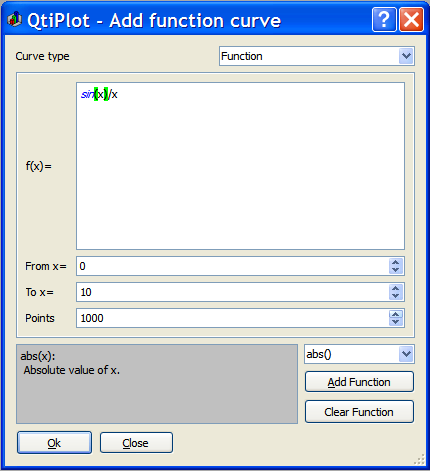
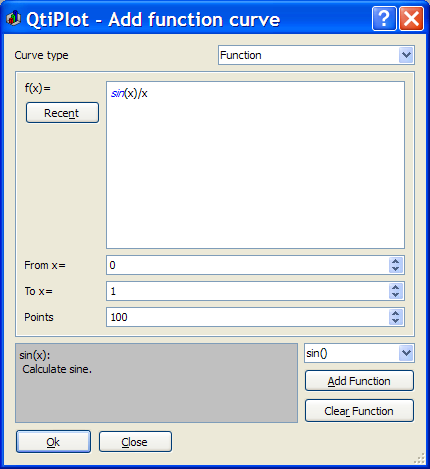
- Improved 2D function dialog. - Fixed bugs in setting scales for 3D plots created from matrices.

Changed region(s): [[0.0, 0.0, 1.0, 1.0]]

diff --git a/trunk/qtiplot/src/plot2D/dialogs/FunctionDialog.cpp b/trunk/qtiplot/src/plot2D/dialogs/FunctionDialog.cpp
@@ -63,6 +63,8 @@ FunctionDialog::FunctionDialog(ApplicationWindow* parent, bool standAlone, Qt::W
 	}
 
     setObjectName( "FunctionDialog" );
+	QString recentTip = tr("Click here to select a recently typed expression");
+	QString recentBtnText = tr("Rece&nt");
 
 	QHBoxLayout *hbox1 = new QHBoxLayout();
 	hbox1->addWidget(new QLabel(tr( "Curve type " )));
@@ -76,12 +78,22 @@ FunctionDialog::FunctionDialog(ApplicationWindow* parent, bool standAlone, Qt::W
 	optionStack->setFrameShape( QFrame::StyledPanel );
 	optionStack->setFrameShadow( QStackedWidget::Plain );
 
+	QVBoxLayout *vl = new QVBoxLayout();
+	vl->addWidget(new QLabel(tr( "f(x)= " )));
+
+	buttonFunctionLog = new QPushButton(recentBtnText);
+	buttonFunctionLog->setToolTip(recentTip);
+	connect(buttonFunctionLog, SIGNAL(clicked()), this, SLOT(showFunctionLog()));
+	vl->addWidget(buttonFunctionLog);
+	vl->addStretch();
+
 	QGridLayout *gl1 = new QGridLayout();
-    gl1->addWidget(new QLabel(tr( "f(x)= " )), 0, 0);
+	gl1->addLayout(vl, 0, 0);
+
 	boxFunction = new ScriptEdit(d_app->scriptingEnv());
 	boxFunction->enableShortcuts();
-
 	gl1->addWidget(boxFunction, 0, 1);
+
 	gl1->addWidget(new QLabel(tr( "From x= " )), 1, 0);
 	boxFrom = new DoubleSpinBox();
 	boxFrom->setLocale(locale);
@@ -134,8 +146,6 @@ FunctionDialog::FunctionDialog(ApplicationWindow* parent, bool standAlone, Qt::W
 	connect(boxXFunction, SIGNAL(activated(ScriptEdit *)), this, SLOT(setActiveEditor(ScriptEdit *)));
 	gl2->addWidget(boxXFunction, 1, 1);
 
-	QString recentTip = tr("Click here to select a recently typed expression");
-	QString recentBtnText = tr("Rece&nt");
 	buttonXParLog = new QPushButton(recentBtnText);
 	buttonXParLog->setToolTip(recentTip);
 	gl2->addWidget(buttonXParLog, 1, 2);
@@ -304,11 +314,6 @@ FunctionDialog::FunctionDialog(ApplicationWindow* parent, bool standAlone, Qt::W
 
 void FunctionDialog::raiseWidget(int index)
 {
-	if (index)
-		buttonClear->setText( tr( "Clear list" ) );
-	else
-		buttonClear->setText( tr( "Clear Function" ) );
-
 	optionStack->setCurrentIndex(index);
 }
 
@@ -381,7 +386,7 @@ void FunctionDialog::setCurveToModify(Graph *g, int curve)
 
 void FunctionDialog::clearList()
 {
-	int type=boxType->currentItem();
+	int type = boxType->currentItem();
 	switch (type)
 	{
 		case 0:
@@ -391,13 +396,11 @@ void FunctionDialog::clearList()
 		case 1:
 			boxXFunction->clear();
 			boxYFunction->clear();
-			emit clearParamFunctionsList();
 			break;
 
 		case 2:
 			boxPolarTheta->clear();
 			boxPolarRadius->clear();
-			emit clearPolarFunctionsList();
 			break;
 	}
 }
@@ -443,7 +446,8 @@ void FunctionDialog::acceptFunction()
 	int type = boxType->currentItem();
 	QStringList formulas;
 	formulas += formula;
-	if (!error){
+	if (!error && d_app){
+		d_app->updateFunctionLists(type, formulas);
 		if (!graph){
 			MultiLayer *plot = d_app->newFunctionPlot(formulas, start, end, boxPoints->value(), "x", type);
 			if (plot)
@@ -605,6 +609,22 @@ void FunctionDialog::accept()
 			acceptPolar();
 			break;
 	}
+}
+
+void FunctionDialog::showFunctionLog()
+{
+	if (!d_app)
+		return;
+
+	if (d_app->d_recent_functions.isEmpty()){
+		QMessageBox::information(this, tr("QtiPlot"), tr("Sorry, there are no recent expressions available!"));
+		return;
+	}
+
+	bool ok;
+	QString s = QInputDialog::getItem(this, tr("QtiPlot") + " - " + tr("Recent Functions"), tr("Please, choose a function:"), d_app->d_recent_functions, 0, false, &ok);
+	if (ok && !s.isEmpty())
+		boxFunction->setText(s);
 }
 
 void FunctionDialog::showXParLog()

diff --git a/trunk/qtiplot/src/plot3D/Graph3D.cpp b/trunk/qtiplot/src/plot3D/Graph3D.cpp
@@ -1265,8 +1265,6 @@ void Graph3D::setScales(double xl, double xr, double yl, double yr, double zl, d
 {
 	QApplication::setOverrideCursor(QCursor(Qt::WaitCursor));
 
-	sp->hide();//in order to avoid flickering, due to changes in tick length
-
 	double *majorTicLengths = new double[12];
 	double *minorTicLengths = new double[12];
 	for (int i = 0; i < 12; i++)
@@ -1313,52 +1311,50 @@ void Graph3D::setScales(double xl, double xr, double yl, double yr, double zl, d
 	delete [] majorTicLengths;
 	delete [] minorTicLengths;
 
-    sp->show();
-
 	QApplication::restoreOverrideCursor();
 }
 
 void Graph3D::updateScalesFromMatrix(double xl, double xr, double yl, double yr, double zl, double zr)
 {
 	double zmin = qMin(zl, zr);
+	double zmax = qMax(zl, zr);
+
 	double xStart = qMin(d_matrix->xStart(), d_matrix->xEnd());
 	double xEnd = qMax(d_matrix->xStart(), d_matrix->xEnd());
 	double yStart = qMin(d_matrix->yStart(), d_matrix->yEnd());
 	double yEnd = qMax(d_matrix->yStart(), d_matrix->yEnd());
 	double dx = d_matrix->dx();
 	double dy = d_matrix->dy();
-    double x_begin = qMin(xl, xr);
+	double x_begin = qMin(xl, xr);
 	double y_begin = qMin(yl, yr);
-	int nc = int(fabs(xr - xl)/dx) + 1;// new number of columns
-	int nr = int(fabs(yr - yl)/dy) + 1;// new number of rows
+
+	int nc = qRound(fabs(xr - xl)/dx) + 1;// new number of columns
+	int nr = qRound(fabs(yr - yl)/dy) + 1;// new number of rows
+
 	double **data_matrix = Matrix::allocateMatrixData(nc, nr);
 	for (int i = 0; i < nc; i++){
 		double x = x_begin + i*dx;
 		if (x < xStart || x > xEnd){
 			for (int j = 0; j < nr; j++)
 				data_matrix[i][j] = zmin;
-			continue;
 		}
 
-        double dli, dlf;
-        dlf = modf(fabs((x - xStart)/dx), &dli);
-        int l = int(dli); if (dlf > 0.5) l++;
+		double dli, dlf;
+		dlf = modf(fabs((x - xStart)/dx), &dli);
+		int l = qRound(dli); if (dlf > 0.5) l++;
 		for (int j = 0; j < nr; j++){
 			double y = y_begin + j*dy;
-			if (y < yStart || y > yEnd){
+			if (y < yStart || y > yEnd)
 				data_matrix[i][j] = zmin;
-				continue;
-			}
 
 			double dki, dkf;
 			dkf = modf(fabs((y - yStart)/dy), &dki);
-			int k = int(dki); if (dkf > 0.5) k++;
+			int k = qRound(dki); if (dkf > 0.5) k++;
 			double val = d_matrix->cell(k, l);
-
-			if (val > zr)
-				data_matrix[i][j] = zr;
-			else if (val < zl)
-				data_matrix[i][j] = zl;
+			if (val > zmax)
+				data_matrix[i][j] = zmax;
+			else if (val < zmin)
+				data_matrix[i][j] = zmin;
 			else
 				data_matrix[i][j] = val;
 		}
@@ -1366,8 +1362,8 @@ void Graph3D::updateScalesFromMatrix(double xl, double xr, double yl, double yr,
 	sp->loadFromData(data_matrix, nc, nr, xl, xr, yl, yr);
 	Matrix::freeMatrixData(data_matrix, nc);
 
-	sp->createCoordinateSystem(Triple(xl, yl, zl), Triple(xr, yr, zr));
-	sp->legend()->setLimits(zl, zr);
+	sp->createCoordinateSystem(Triple(xl, yl, zmin), Triple(xr, yr, zmax));
+	sp->legend()->setLimits(zmin, zmax);
 	sp->legend()->setMajors(legendMajorTicks);
 
 	update();

diff --git a/trunk/qtiplot/src/core/ApplicationWindow.cpp b/trunk/qtiplot/src/core/ApplicationWindow.cpp
@@ -4881,6 +4881,7 @@ void ApplicationWindow::readSettings()
 	rFunctions = settings.value("/rFunctions").toStringList();
 	thetaFunctions = settings.value("/thetaFunctions").toStringList();
 	d_param_surface_func = settings.value("/ParametricSurfaces").toStringList();
+	d_recent_functions = settings.value("/Functions").toStringList();
 	settings.endGroup(); // UserFunctions
 
 	settings.beginGroup("/Confirmations");
@@ -5255,6 +5256,7 @@ void ApplicationWindow::saveSettings()
 	settings.setValue("/rFunctions", rFunctions);
 	settings.setValue("/thetaFunctions", thetaFunctions);
     settings.setValue("/ParametricSurfaces", d_param_surface_func);
+	settings.setValue("/Functions", d_recent_functions);
 	settings.endGroup(); // UserFunctions
 
 	settings.beginGroup("/Confirmations");
@@ -10221,9 +10223,6 @@ FunctionDialog* ApplicationWindow::showFunctionDialog(Graph *g, int curve)
 FunctionDialog* ApplicationWindow::functionDialog()
 {
 	FunctionDialog* fd = new FunctionDialog(this);
-	connect (fd, SIGNAL(clearParamFunctionsList()), this, SLOT(clearParamFunctionsList()));
-	connect (fd, SIGNAL(clearPolarFunctionsList()), this, SLOT(clearPolarFunctionsList()));
-
 	fd->setModal(true);
 	fd->show();
 	fd->setActiveWindow();
@@ -10254,8 +10253,7 @@ void ApplicationWindow::addFunctionCurve()
 void ApplicationWindow::updateFunctionLists(int type, QStringList &formulas)
 {
 	int maxListSize = 10;
-	if (type == 2 && formulas.size() >= 2)
-	{
+	if (type == 2 && formulas.size() >= 2){
 		rFunctions.remove(formulas[0]);
 		rFunctions.push_front(formulas[0]);
 
@@ -10266,9 +10264,7 @@ void ApplicationWindow::updateFunctionLists(int type, QStringList &formulas)
 			rFunctions.pop_back();
 		while ((int)thetaFunctions.size() > maxListSize)
 			thetaFunctions.pop_back();
-	}
-	else if (type == 1 && formulas.size() >= 2)
-	{		
+	} else if (type == 1 && formulas.size() >= 2){
 		xFunctions.remove(formulas[0]);
 		xFunctions.push_front(formulas[0]);
 
@@ -10279,6 +10275,12 @@ void ApplicationWindow::updateFunctionLists(int type, QStringList &formulas)
 			xFunctions.pop_back();
 		while ((int)yFunctions.size() > maxListSize)
 			yFunctions.pop_back();
+	} else if (type == 0 && formulas.size() >= 1){
+		d_recent_functions.remove(formulas[0]);
+		d_recent_functions.push_front(formulas[0]);
+
+		while ((int)d_recent_functions.size() > maxListSize)
+			d_recent_functions.pop_back();
 	}
 }
 
@@ -10299,23 +10301,6 @@ void ApplicationWindow::clearLogInfo()
 		results->setText("");
 		emit modified();
 	}
-}
-
-void ApplicationWindow::clearParamFunctionsList()
-{
-	xFunctions.clear();
-	yFunctions.clear();
-}
-
-void ApplicationWindow::clearPolarFunctionsList()
-{
-	rFunctions.clear();
-	thetaFunctions.clear();
-}
-
-void ApplicationWindow::clearSurfaceFunctionsList()
-{
-	surfaceFunc.clear();
 }
 
 void ApplicationWindow::setFramed3DPlot()

diff --git a/trunk/qtiplot/src/plot3D/SurfaceDialog.cpp b/trunk/qtiplot/src/plot3D/SurfaceDialog.cpp
@@ -67,7 +67,7 @@ SurfaceDialog::SurfaceDialog( QWidget* parent, Qt::WFlags fl )
 	initFunctionPage();
 	initParametricSurfacePage();
 
-	buttonClear = new QPushButton(tr("Clear &list"));
+	buttonClear = new QPushButton(tr("Clea&r"));
 	buttonOk = new QPushButton(tr("&OK"));
     buttonOk->setDefault(true);
     buttonCancel = new QPushButton(tr("&Close"));
@@ -87,7 +87,7 @@ SurfaceDialog::SurfaceDialog( QWidget* parent, Qt::WFlags fl )
     setFocusProxy(boxFunction);
 
 	connect( boxType, SIGNAL(activated(int)), optionStack, SLOT(setCurrentIndex(int)));
-	connect( buttonClear, SIGNAL(clicked()), this, SLOT(clearList()));
+	connect( buttonClear, SIGNAL(clicked()), this, SLOT(clearFunction()));
     connect( buttonOk, SIGNAL(clicked()), this, SLOT(accept()));
     connect( buttonCancel, SIGNAL(clicked()), this, SLOT(reject()));
 }
@@ -321,17 +321,14 @@ void SurfaceDialog::initParametricSurfacePage()
 	optionStack->addWidget(parametricPage);
 }
 
-void SurfaceDialog::clearList()
+void SurfaceDialog::clearFunction()
 {
-    ApplicationWindow *app = (ApplicationWindow *)this->parent();
-
-    if (app && boxType->currentIndex())
-        app->d_param_surface_func.clear();
-    else {
-        boxFunction->clear();
-        if (app)
-            app->clearSurfaceFunctionsList();
-    }
+	if (boxType->currentIndex()){
+		boxX->clear();
+		boxY->clear();
+		boxZ->clear();
+	} else
+		boxFunction->clear();
 }
 
 void SurfaceDialog::setFunction(Graph3D *g)

diff --git a/trunk/qtiplot/src/core/ApplicationWindow.h b/trunk/qtiplot/src/core/ApplicationWindow.h
@@ -369,10 +369,7 @@ public slots:
 	FunctionDialog* functionDialog();
 	FunctionDialog* showFunctionDialog(Graph * g, int curve);
 	void addFunctionCurve();
-	void clearSurfaceFunctionsList();
 	void clearLogInfo();
-	void clearParamFunctionsList();
-	void clearPolarFunctionsList();
 	void updateFunctionLists(int type, QStringList &formulas);
 	void updateSurfaceFuncList(const QString& s);
 	//@}
@@ -1263,7 +1260,7 @@ public:
 	QStringList recentProjects;
 	bool saved;
 	QStringList locales;
-	QStringList functions; //user-defined functions;
+	QStringList d_recent_functions; //user-defined functions;
 	QStringList xFunctions, yFunctions, rFunctions, thetaFunctions; // user functions for parametric and polar plots
 	QStringList surfaceFunc; //user-defined surface functions;
     QStringList d_param_surface_func; //user-defined parametric surface functions;

diff --git a/trunk/qtiplot/src/plot3D/Plot3DDialog.cpp b/trunk/qtiplot/src/plot3D/Plot3DDialog.cpp
@@ -1061,8 +1061,10 @@ bool Plot3DDialog::updatePlot()
 		d_plot->setNumbersFont(numbersFont);
 		d_plot->setZoom(zoom*boxZoom->value()*0.01);
 		d_plot->setScale(xScale*boxXScale->value()*0.01, yScale*boxYScale->value()*0.01, zScale*boxZScale->value()*0.01);
-	} else if (generalDialog->currentPage()==(QWidget*)scale){
-		d_plot->setScale(axesList->currentRow(), boxFrom->value(), boxTo->value(), boxMajors->value(),
+	} else if (generalDialog->currentPage() == (QWidget*)scale){
+		double start = qMin(boxFrom->value(), boxTo->value());
+		double end = qMax(boxFrom->value(), boxTo->value());
+		d_plot->setScale(axesList->currentRow(), start, end, boxMajors->value(),
 						 boxMinors->value(), (Qwt3D::SCALETYPE)boxType->currentIndex());
 	} else if (generalDialog->currentPage() == axes){
 		int axis = axesList2->currentRow();

diff --git a/trunk/qtiplot/src/plot2D/dialogs/FunctionDialog.h b/trunk/qtiplot/src/plot2D/dialogs/FunctionDialog.h
@@ -63,6 +63,7 @@ protected slots:
 	void acceptFunction();
 	void acceptParametric();
 	void acceptPolar();
+	void showFunctionLog();
 	void showXParLog();
 	void showYParLog();
 	void showPolarRadiusLog();
@@ -72,10 +73,6 @@ protected slots:
 public slots:
 	void accept();
 	void clearList();
-
-signals:
-	void clearParamFunctionsList();
-	void clearPolarFunctionsList();
 
 private:
 	Graph *graph;
@@ -110,7 +107,7 @@ private:
 	QPushButton *addFunctionBtn;
 	QComboBox* boxMathFunctions;
 	QTextEdit* boxFunctionExplain;
-	QPushButton *buttonXParLog, *buttonYParLog, *buttonPolarRadiusLog, *buttonPolarRThetaLog;
+	QPushButton *buttonFunctionLog, *buttonXParLog, *buttonYParLog, *buttonPolarRadiusLog, *buttonPolarRThetaLog;
 
 	ApplicationWindow *d_app;
 	ScriptEdit *d_active_editor;

diff --git a/trunk/qtiplot/src/plot3D/SurfaceDialog.h b/trunk/qtiplot/src/plot3D/SurfaceDialog.h
@@ -55,7 +55,7 @@ public slots:
 	void setGraph(Graph3D *g){d_graph = g;};
 
 private slots:
-	void clearList();
+	void clearFunction();
 	void accept();
 	void showFunctionLog();
 	void showXLog();
